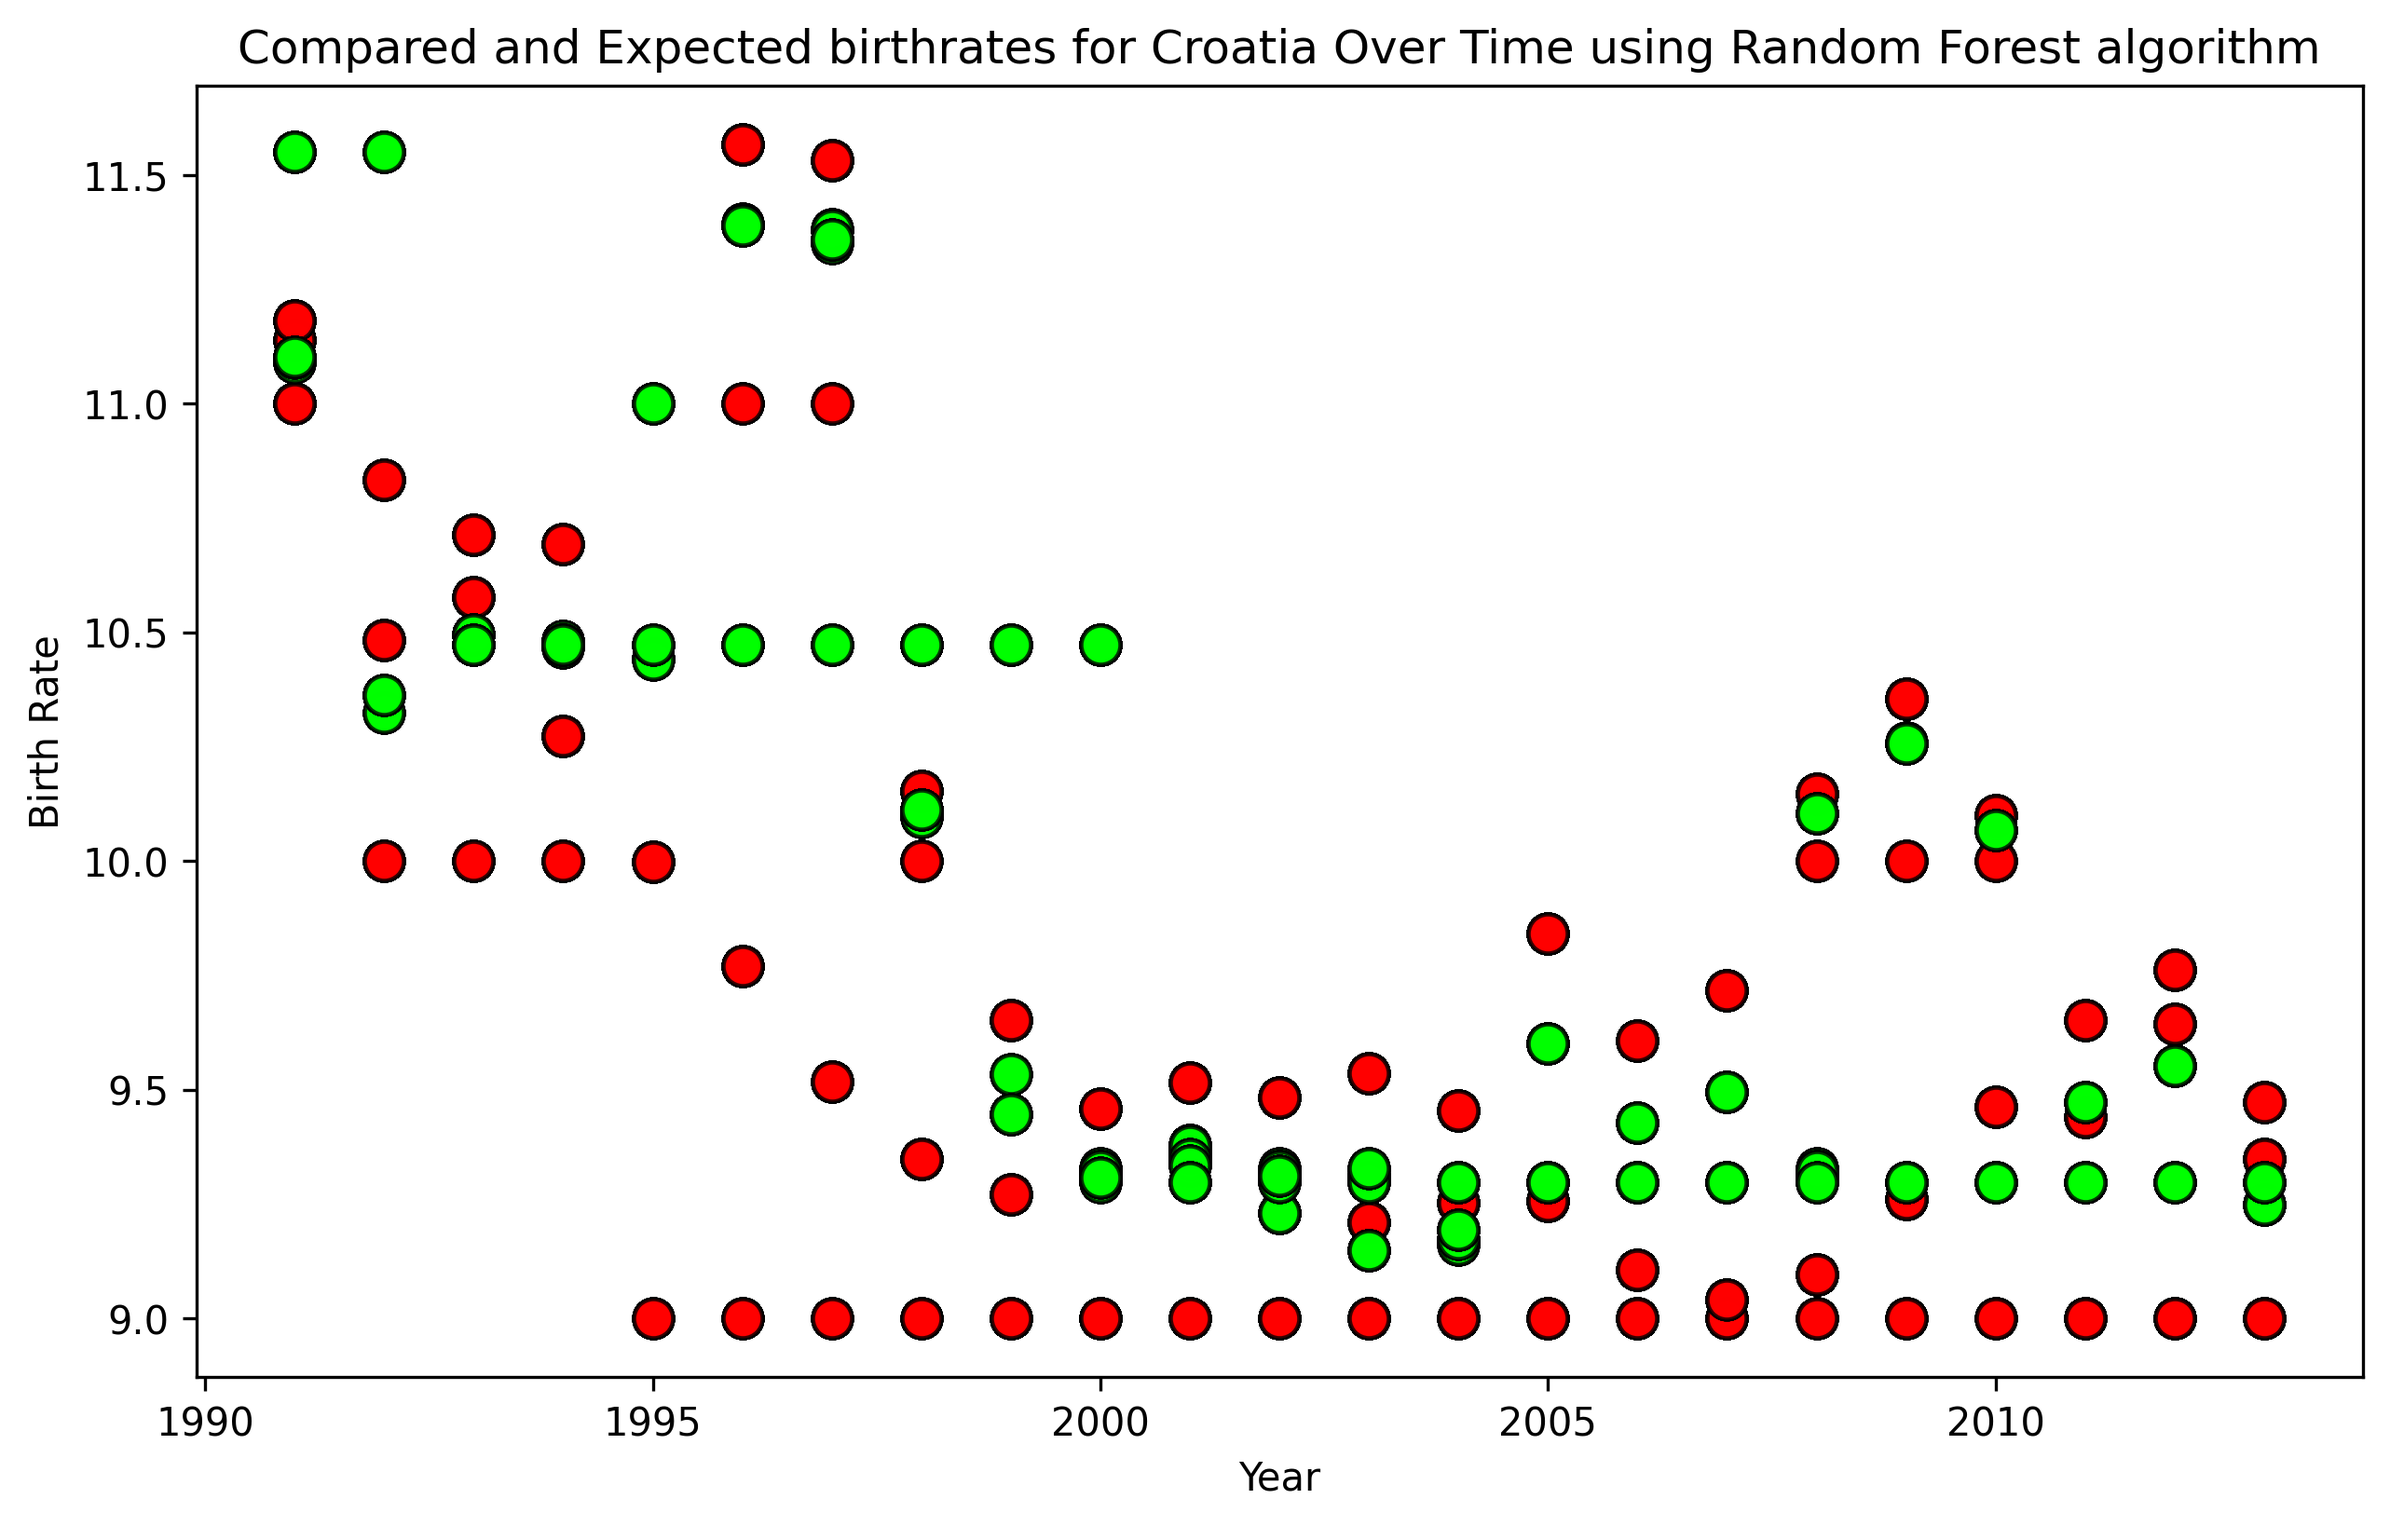
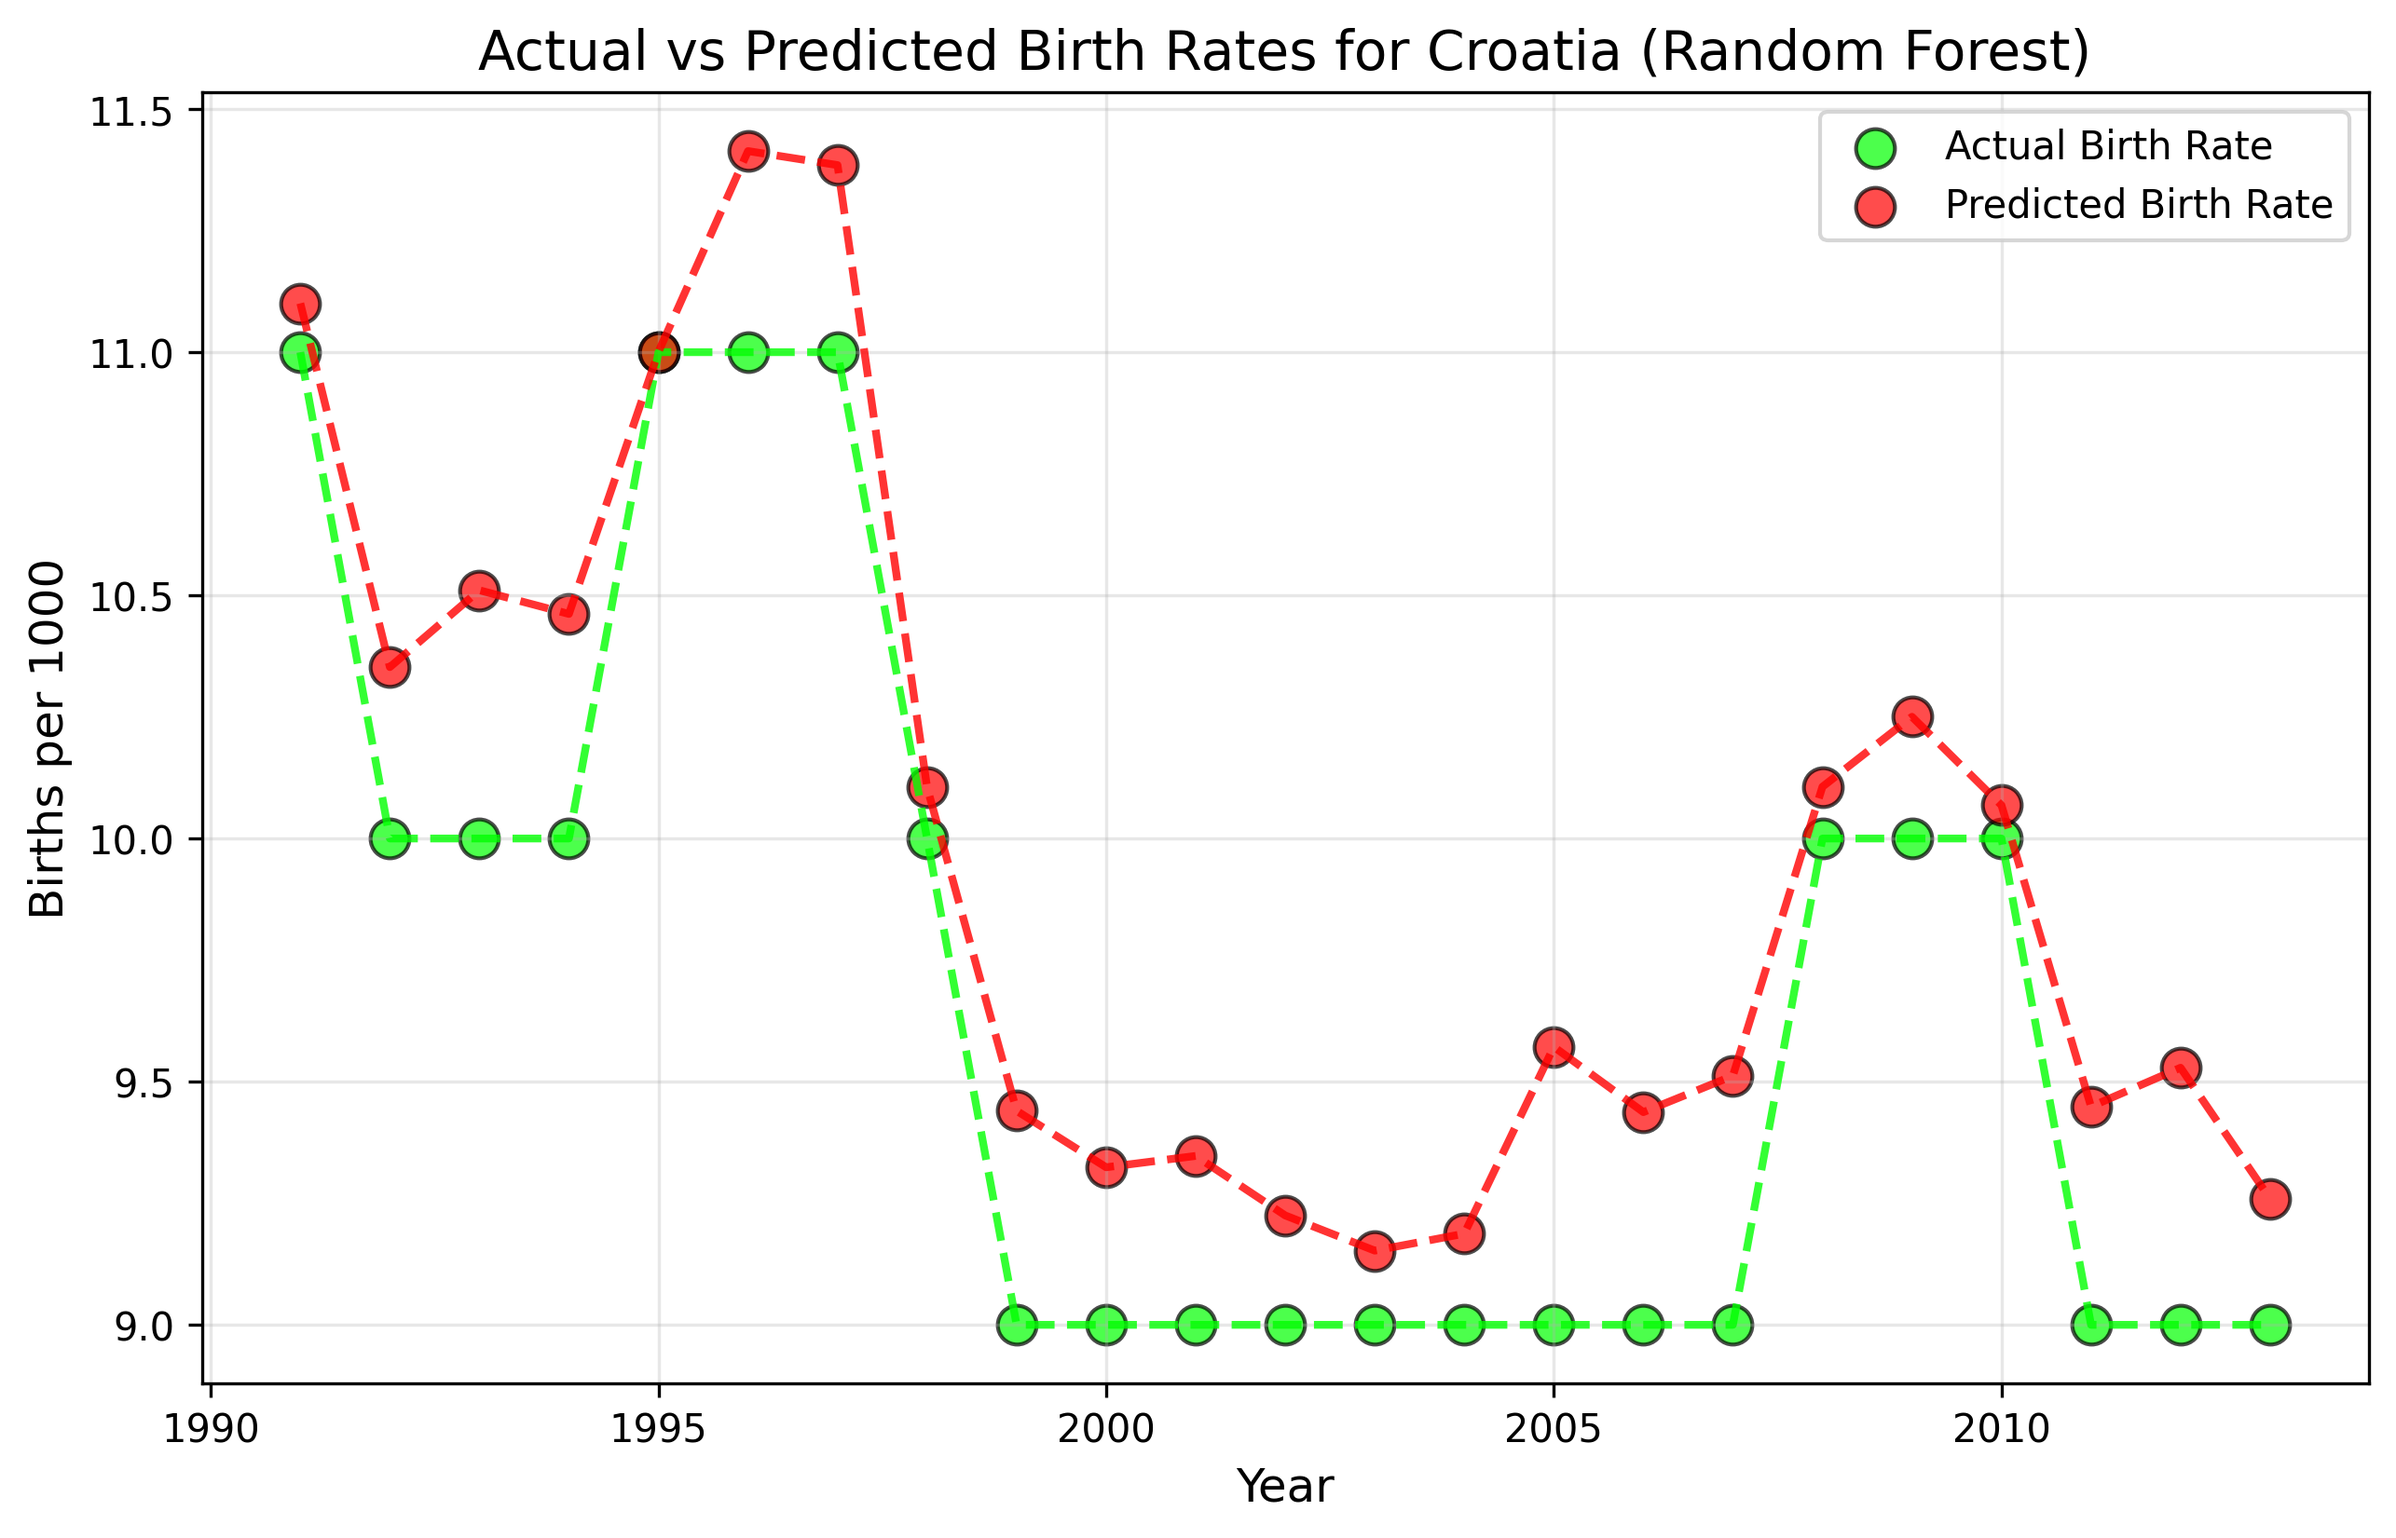
batman

diff --git a/models/DataMiningProj/src/views.py b/models/DataMiningProj/src/views.py
@@ -275,84 +275,45 @@ def plot_religious_groups_estimate(country_name: str):
 
     return image_data, filepath
 
-def plot_religious_groups_estimate_areas(country_name: str):
-    if country_name == 'Romania':
-        models.ReligiousLarge.objects.filter(entity="Rumania").update(entity="Romania")
-    
-    religious_data = models.ReligiousLarge.objects.filter(entity=country_name).order_by('year')
-    population_data = models.Population.objects.filter(entity=country_name).order_by('year')
 
-    if not religious_data or not population_data:
-        print(f"No data found for {country_name}")
-        return None
+def plot_predictions_against_test(country_name, algorithm, years, actual, predicted):
+    # Flatten years, actual, and predicted if they are DataFrames or 2D arrays
+    years = years.values.flatten()
+    actual = np.array(actual).flatten()
+    predicted = np.array(predicted).flatten()
 
-    filtered_religious_data = [entry for entry in religious_data if entry.year.year >= 1950]
-    population_by_year = {entry.year.year: entry.population for entry in population_data if entry.year.year >= 1950}
+    # Create DataFrame with 'year', 'actual', and 'predicted'
+    data = pd.DataFrame({
+        'year': years,
+        'actual': actual,
+        'predicted': predicted
+    }).drop_duplicates(subset='year')
 
-    grouped_data = {}
-    for entry in filtered_religious_data:
-        year = entry.year.year
-        group_name = entry.group_name
-        group_estimate = entry.group_estimate
+    data = data.sort_values('year')
 
-        if year not in grouped_data:
-            grouped_data[year] = {}
-        grouped_data[year][group_name] = group_estimate
-
-    years = sorted(grouped_data.keys())
-    group_names = set(name for year in grouped_data for name in grouped_data[year])
-
-    group_populations = {group: [] for group in group_names}
-
-    for year in years:
-        total_population = population_by_year.get(year, 0)
-        for group in group_names:
-            estimate = grouped_data[year].get(group, 0)
-            group_populations[group].append(total_population * (estimate / 100) if total_population else 0)
-
-    population_lists = [group_populations[group] for group in group_names]
-    group_names = list(group_names)
-
-    fig, ax = plt.subplots(figsize=(12, 8))
-    ax.stackplot(years, population_lists, labels=group_names, alpha=0.8)
-
-    ax.set_title(f"Religious Group Populations in {country_name} Over Time")
-    ax.set_xlabel("Year")
-    ax.set_ylabel("Population")
-    ax.legend(loc='upper left', fontsize='small')
-    ax.grid(True)
-
-    buf = io.BytesIO()
-    fig.savefig(buf, format='png')
-    buf.seek(0)
-    image_data = base64.b64encode(buf.getvalue()).decode('utf-8')
-
-    output_dir = os.path.join(settings.MEDIA_ROOT, 'religious_group_plots_area')
-    if not os.path.exists(output_dir):
-        os.makedirs(output_dir)
-
-    filename = f"{country_name}_religious_groups_plot.png"
-    filepath = os.path.join(output_dir, filename)
-    fig.savefig(filepath, dpi=300, bbox_inches='tight')
-
-    plt.close(fig)
-
-    return image_data, filepath
-
-def plot_predictions_against_test(country_name, algorithm, year, X_br, y_br):
     fig, ax = plt.subplots(figsize=(10, 6))
-    ax.scatter(year, X_br, c="#ff0000", s=100, edgecolors='k', alpha=0.7)
-    ax.scatter(year, y_br, c="#00ff00", s=100, edgecolors='k', alpha=0.7)
 
-    ax.set_title(f"Compared and Expected birthrates for { country_name } Over Time using { algorithm } algorithm")
-    ax.set_xlabel("Year")
-    ax.set_ylabel("Birth Rate")
+    # Plot actual birth rates
+    ax.scatter(data['year'], data['actual'], color="#00ff00", s=100, edgecolors='k', alpha=0.7, label='Actual Birth Rate')
+
+    # Plot predicted birth rates
+    ax.scatter(data['year'], data['predicted'], color="#ff0000", s=100, edgecolors='k', alpha=0.7, label='Predicted Birth Rate')
+
+    # Line plot to connect the points for clarity
+    ax.plot(data['year'], data['actual'], color="#00ff00", linewidth=2, linestyle="--", alpha=0.8)
+    ax.plot(data['year'], data['predicted'], color="#ff0000", linewidth=2, linestyle="--", alpha=0.8)
+
+    ax.set_title(f"Actual vs Predicted Birth Rates for {country_name} ({algorithm})", fontsize=14)
+    ax.set_xlabel("Year", fontsize=12)
+    ax.set_ylabel("Births per 1000", fontsize=12)
+    ax.legend(fontsize=10)
+    ax.grid(alpha=0.3)
 
     buf = io.BytesIO()
-    fig.savefig(buf, format='png')
+    fig.savefig(buf, format='png', dpi=300, bbox_inches='tight')
     buf.seek(0)
     image_data = base64.b64encode(buf.getvalue()).decode('utf-8')
-
+    
     output_dir = os.path.join(settings.MEDIA_ROOT, 'prediction_plots')
     if not os.path.exists(output_dir):
         os.makedirs(output_dir)
@@ -363,9 +324,12 @@ def plot_predictions_against_test(country_name, algorithm, year, X_br, y_br):
 
     plt.close(fig)
 
+    return filepath, image_data
+
+
 #TITLE :: Language Training
 
-def train_crude_birth_rate_model():
+def train_crude_birth_rate_ridge_model():
     population_data = models.Population.objects.all().values('year', 'entity', 'population')
     religious_data = models.ReligiousLarge.objects.all().values('year', 'entity', 'group_name', 'group_proportion', 'independent_country')
     political_data = models.PoliticalRegieme.objects.all().values('year', 'entity', 'political_regime')
@@ -424,7 +388,7 @@ def train_crude_birth_rate_random_forest_model():
     political_df = pd.DataFrame(political_data)
     birth_rate_df = pd.DataFrame(birth_rate_data)
 
-    countries = ['United Kingdom', 'France', 'Spain', 'Romania', 'Italy', 'Croatia']
+    countries = ['United Kingdom', 'France', 'Spain', 'Romania', 'Italy']
     
     population_df = population_df[population_df['entity'].isin(countries)]
     religious_df = religious_df[religious_df['entity'].isin(countries)]
@@ -492,7 +456,6 @@ def train_crude_birth_rate_linear_regression_model():
     model = LinearRegression()
     model.fit(X_train, y_train)
 
-
     print(f"Intercept (B0): {model.intercept_}")
     print(f"Coefficients (B1, B2, B3, B4): {model.coef_}")
 
@@ -505,8 +468,9 @@ def train_crude_birth_rate_linear_regression_model():
 
     return model, scaler
 
-def tester(model, scaler):
-    countries = ['Serbia', 'Croatia']
+def tester(model, scaler, country: str):
+    countries = []
+    countries.append(country)
     
     population_data = models.Population.objects.all().values('year', 'entity', 'population')
     religious_data = models.ReligiousLarge.objects.all().values('year', 'entity', 'group_name', 'group_proportion', 'independent_country')
@@ -527,7 +491,6 @@ def tester(model, scaler):
     merged_df = pd.merge(merged_df, political_df, on=['year', 'entity'], how='left')
     merged_df = pd.merge(merged_df, birth_rate_df, on=['year', 'entity'], how='left')
 
-    # Filtering for Serbia and Croatia from 1991 onwards
     merged_df = merged_df[
         ~((merged_df['entity'].isin(['Serbia', 'Croatia'])) & (merged_df['year'] < 1991))
     ]
@@ -555,31 +518,25 @@ def tester(model, scaler):
 #TITLE :: DATASET
 
 def create_complete_dataset():
-    # Fetch all data without filtering by country
     population_data = models.Population.objects.all().values('year', 'entity', 'population')
     religious_data = models.ReligiousLarge.objects.all().values('year', 'entity', 'group_name', 'group_proportion', 'independent_country')
     political_data = models.PoliticalRegieme.objects.all().values('year', 'entity', 'political_regime')
     birth_rate_data = models.CrudeBirthRate.objects.all().values('year', 'entity', 'birth_rate')
 
-    # Convert to DataFrames
     population_df = pd.DataFrame(population_data)
     religious_df = pd.DataFrame(religious_data)
     political_df = pd.DataFrame(political_data)
     birth_rate_df = pd.DataFrame(birth_rate_data)
 
-    # Merge all data
     merged_df = pd.merge(population_df, religious_df, on=['year', 'entity'], how='left')
     merged_df = pd.merge(merged_df, political_df, on=['year', 'entity'], how='left')
     merged_df = pd.merge(merged_df, birth_rate_df, on=['year', 'entity'], how='left')
 
-    # Drop any rows with missing values (optional, depending on the context)
     merged_df = merged_df.dropna()
 
-    # Create directory for saving the dataset
     output_dir = os.path.join(settings.BASE_DIR, 'dataset_csv')
     os.makedirs(output_dir, exist_ok=True)
 
-    # Save the merged dataset as a CSV
     output_path = os.path.join(output_dir, 'complete_dataset.csv')
     merged_df.to_csv(output_path, index=False)
 
@@ -641,18 +598,30 @@ def create_complete_dataset():
 
 #! Training Model
 # model, scaler = train_crude_birth_rate_linear_regression_model()
-# years, base, prediction = tester(model, scaler)
-# plot_predictions_against_test("Portugal", "Linear Regression", years, base, prediction)
+# model, scaler = train_crude_birth_rate_ridge_model()
 # model, scaler = train_crude_birth_rate_random_forest_model()
-# years, base, prediction = tester(model, scaler)
 
-# plot_predictions_against_test("Croatia", "Linear Regression", years, base, prediction)
+#! Plotting Testing Model
+# years, base, prediction = tester(model, scaler, "Lithuania")
+# plot_predictions_against_test("Lithuania", "Linear Regression", years, base, prediction)
+# plot_predictions_against_test("Lithuania", "Ridge Regression", years, base, prediction)
+# plot_predictions_against_test("Lithuania", "Random Forest", years, base, prediction)
+
+# years, base, prediction = tester(model, scaler, "Portugal")
+# plot_predictions_against_test("Portugal", "Linear Regression", years, base, prediction)
+# plot_predictions_against_test("Portugal", "Ridge Regression", years, base, prediction)
+# plot_predictions_against_test("Portugal", "Random Forest", years, base, prediction)
+
+# years, base, prediction = tester(model, scaler, "Serbia")
 # plot_predictions_against_test("Serbia", "Linear Regression", years, base, prediction)
+# plot_predictions_against_test("Serbia", "Ridge Regression", years, base, prediction)
+# plot_predictions_against_test("Serbia", "Random Forest", years, base, prediction)
+
+# years, base, prediction = tester(model, scaler, "Croatia")
+# plot_predictions_against_test("Croatia", "Linear Regression", years, base, prediction)
+# plot_predictions_against_test("Croatia", "Ridge Regression", years, base, prediction)
+# plot_predictions_against_test("Croatia", "Random Forest", years, base, prediction)
+
 
 #! Final Dataset
-complete_dataset = create_complete_dataset()
-
-#TODO:
-"""
-We should try and make the sections a bit smaller...since its a maximum of 10 pages
-"""
+# complete_dataset = create_complete_dataset()
